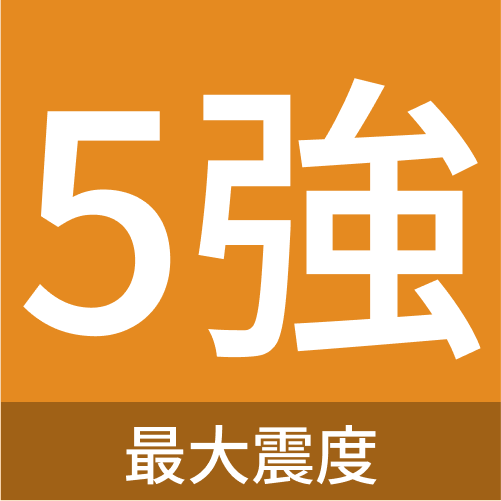
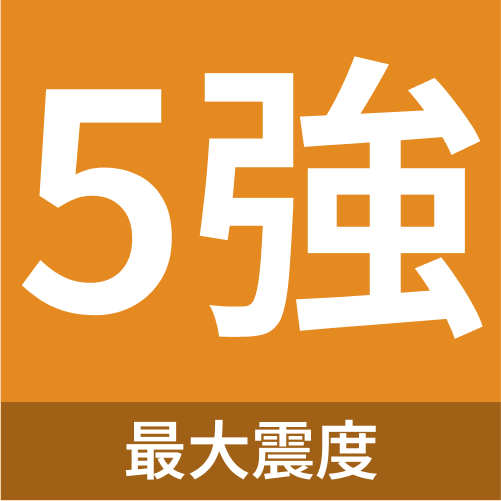
thumbnailデザインの変更、警報と予報で絵文字が変わるように変更

Changed region(s): [[0.3892, 0.0898, 0.9581, 0.7186], [0.0299, 0.1796, 0.3593, 0.6886], [0.2395, 0.8383, 0.7485, 0.988]]

diff --git a/bot.py b/bot.py
@@ -396,7 +396,7 @@ async def process_eew_data(data, is_test=False):
         image = 'unknown.png'
 
     title_type = "警報" if data.get('isWarn', False) else "予報"
-    title = f"{'**テストデータです！**' if is_test else ''}⚠緊急地震速報（{title_type}）第{report_number}報"
+    title = f"{'**テストデータです！**' if is_test else ''}{"🚨" if data.get('isWarn', False) else "⚠"}緊急地震速報({title_type}) 第{report_number}報"
     description = f"**{formatted_origin_time}頃{hypocenter}で地震、推定最大震度{max_intensity}**"
     color = 0xff0000 if data.get('isWarn', False) else 0xffd700
     
@@ -428,7 +428,8 @@ async def process_eew_data(data, is_test=False):
     embed.add_field(name="警報区域", value=chiiki, inline=False)
     embed.set_footer(text=f"気象庁 | Version {VER}")
 
-    file = discord.File(f"eew/{image}", filename=image)
+    file_path = "eew/warning" if data.get('isWarn', False) else "eew/forecast"
+    file = discord.File(f"{file_path}/{image}", filename=image)
     embed.set_thumbnail(url=f"attachment://{image}")
 
     channel = client.get_channel(channel_id)
